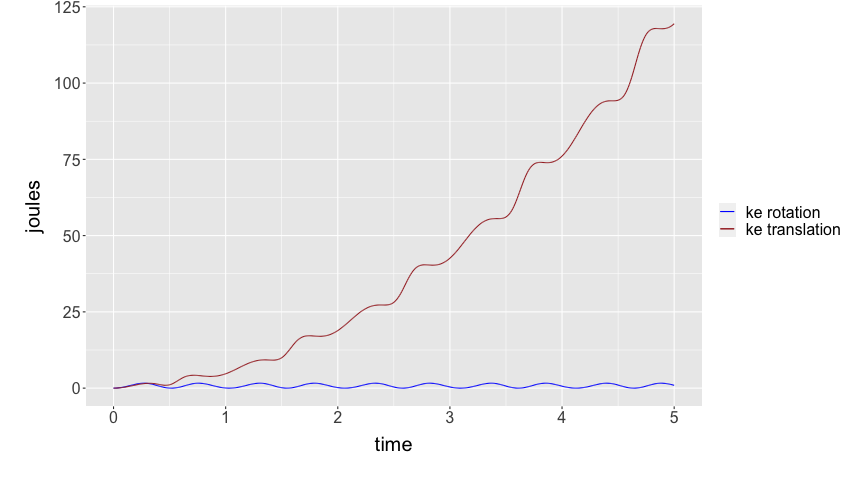
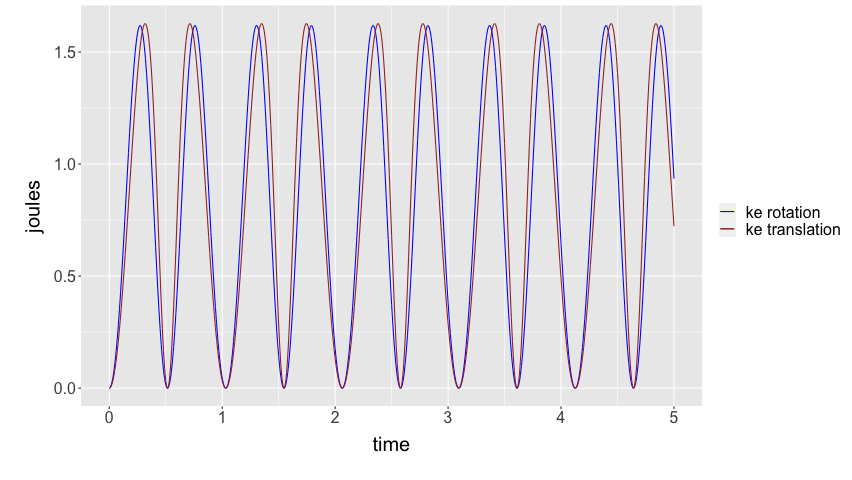
taproot3 autocommit 2021-12-04 23:40:59

diff --git a/docs/physics/physics_research/KBhRotatingChain.html b/docs/physics/physics_research/KBhRotatingChain.html
@@ -3,7 +3,7 @@
 "http://www.w3.org/TR/xhtml1/DTD/xhtml1-strict.dtd">
 <html xmlns="http://www.w3.org/1999/xhtml" lang="en" xml:lang="en">
 <head>
-<!-- 2021-12-04 Sat 23:36 -->
+<!-- 2021-12-04 Sat 23:39 -->
 <meta http-equiv="Content-Type" content="text/html;charset=utf-8" />
 <meta name="viewport" content="width=device-width, initial-scale=1" />
 <title>Rotating Chain Experiment: Floor</title>
@@ -222,7 +222,7 @@
 </head>
 <body>
 <div id="preamble" class="status">
-<div class="header"><span class="site"><a href="https://taproot3.sanity.gq">TR3.5</a></span></div><div class="datarow"><h1 class="title">Rotating Chain Experiment: Floor</h1> <h2 class="subtitle"></h2> <span class="author">Houjun Liu</span> <span class="date">2021-12-04 Sat 23:36</date></div>
+<div class="header"><span class="site"><a href="https://taproot3.sanity.gq">TR3.5</a></span></div><div class="datarow"><h1 class="title">Rotating Chain Experiment: Floor</h1> <h2 class="subtitle"></h2> <span class="author">Houjun Liu</span> <span class="date">2021-12-04 Sat 23:38</date></div>
 </div>
 <div id="content">
 <p>
@@ -230,7 +230,7 @@ Let's draw a picture of this situation!
 </p>
 
 
-<div id="org24a72f3" class="figure">
+<div id="orgaf769df" class="figure">
 <p><img src="2021-12-04_23-02-31_screenshot.png" alt="2021-12-04_23-02-31_screenshot.png" />
 </p>
 </div>
@@ -332,9 +332,10 @@ Awesome. Let's now run a lovely little for loop to actually populate the values 
     # We could therefore component-ize the acceleration in theta, times 
     # the length of the object until com, to figure the acceleratinos
     # of the com
-    ax &lt;- -1 * L1 * sin(theta) * thetadotdot
+    ## ax &lt;- -1 * L1 * sin(theta) * thetadotdot
+    ax &lt;- (-1*sin(theta)*thetadot^2+cos(theta)*thetadotdot)*L1
     cAccelX[i] = ax
-    ay &lt;- L1 * cos(theta) * thetadotdot
+    ## ay &lt;- L1 * cos(theta) * thetadotdot
     cAccelY[i] = ay # @mark isn't sin and cos backwards?
     # We also tally the components seperately for velocity
     vx &lt;- ax*dt + vx
@@ -459,7 +460,7 @@ Cool! We could first graph a function for theta over time.
 </div>
 
 
-<div id="org7568834" class="figure">
+<div id="org41fa192" class="figure">
 <p><img src="./chainrot_time_theta.png" alt="chainrot_time_theta.png" />
 </p>
 </div>
@@ -474,7 +475,7 @@ And, similarly, we will graph <code>ax</code> and <code>ay</code> on top of each
 </div>
 
 
-<div id="org70d6c55" class="figure">
+<div id="org82b5753" class="figure">
 <p><img src="./chainrot_time_accels.png" alt="chainrot_time_accels.png" />
 </p>
 </div>
@@ -489,7 +490,7 @@ Let's also plot torque as well.
 </div>
 
 
-<div id="org3c6ec17" class="figure">
+<div id="orgf8f3cfb" class="figure">
 <p><img src="./chainrot_torque.png" alt="chainrot_torque.png" />
 </p>
 </div>
@@ -504,7 +505,7 @@ And. <b>Most importantly!</b> Let's plot the normal force.
 </div>
 
 
-<div id="org85bf3bb" class="figure">
+<div id="org1658f1a" class="figure">
 <p><img src="./chainrot_normal.png" alt="chainrot_normal.png" />
 </p>
 </div>
@@ -523,7 +524,7 @@ Theta dot atop theta:
 </div>
 
 
-<div id="org5ce614e" class="figure">
+<div id="org1fd53c4" class="figure">
 <p><img src="./chainrot_thetadot_theta.png" alt="chainrot_thetadot_theta.png" />
 </p>
 </div>
@@ -538,7 +539,7 @@ We finally, plot KE rotation and translation
 </div>
 
 
-<div id="org9f1312f" class="figure">
+<div id="org7e601bf" class="figure">
 <p><img src="./chainrot_ke.png" alt="chainrot_ke.png" />
 </p>
 </div>
@@ -550,7 +551,7 @@ We finally, plot KE rotation and translation
 </div>
 
 
-<div id="org7094041" class="figure">
+<div id="org6356bb7" class="figure">
 <p><img src="./chainrot_x_y_pos.png" alt="chainrot_x_y_pos.png" />
 </p>
 </div>
